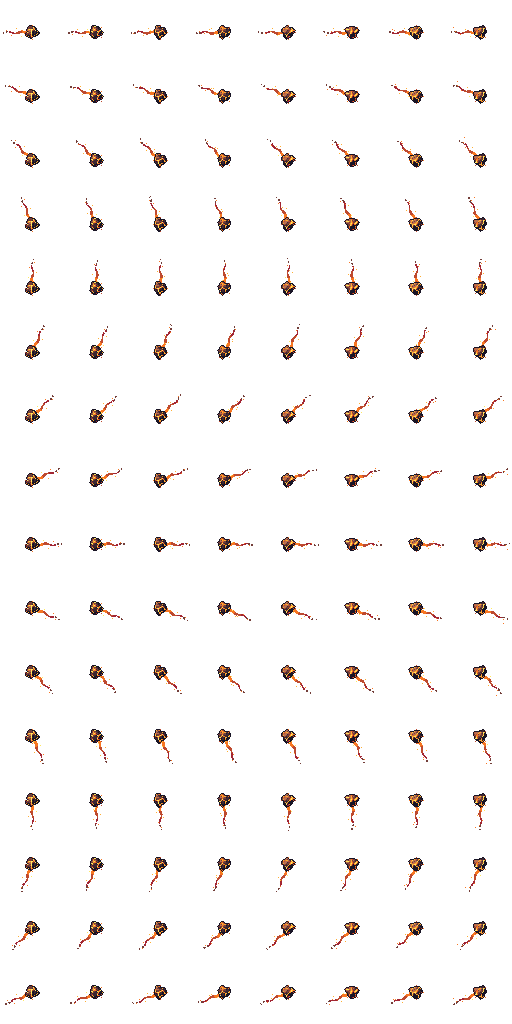
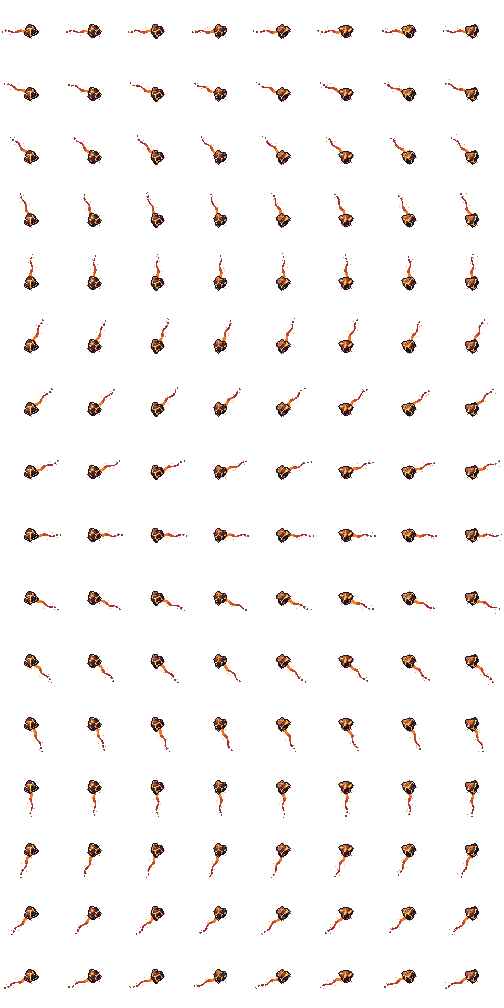
t1514 HFX v5 Molten Spit: native v5 strips (impact 71x44 7 f, burst_med, pop_v1/v2 on 7 landings, strand_dir16 24 f head pivot launch/loop/fade, ember v1/v2 30 f at b3/b4 + 4 landings, scorch 6x6 f, darken 6 f, gouge 44x38, rock 63x63), v5 shard flight frames; star / ember_patch_v3 / heat unused (he

diff --git a/Assets/Hellord/Scripts/Runtime/HellordFireBasics1481.cs b/Assets/Hellord/Scripts/Runtime/HellordFireBasics1481.cs
@@ -105,45 +105,46 @@ namespace Hellord
         void FbSpitImpact1481(FbRock r)
         {
             var T = HellordTuning.I; Vector2 at = r.p; ClampToRoom(ref at, 4); int ord = YSort(at.y); var s = r.s; float dmg = r.dmg;
-            FireBasicsFX1481.Once("molten_spit_impact", at, ord + 40, 0f, T.msImpactSpeed1481, 0, false, 0f, T.msBlastSx1481, T.msBlastSy1481); // t1514: flattened ~40 x 26 px, 2 hot frames + fade (~7 f)
+            FireBasicsFX1481.Once("molten_spit_impact", at, ord + 40, 0f, T.msImpactSpeed1481, 0, false, 0f, T.msBlastSx1481, T.msBlastSy1481); // HFX v5 impact 71x44 (42x27 blob), 7 f: 2 core + 5 fade, native
             var cast = new FbCast { embers = 1 };
-            if (T.fbDark1481 && T.msDarkArt1481 && FireBasicsFX1481.Frames("molten_spit_darken") > 0) FireBasicsFX1481.Once("molten_spit_darken", at, FbDarkOrd1481(at.y), 0f, 1f, 0, false, T.msDarkArtDelayF1481, T.msDarkArtSx1481, T.msDarkArtSy1481); // HFX v4 dark under-burst decal b0-b9
+            if (T.fbDark1481 && T.msDarkArt1481 && FireBasicsFX1481.Frames("molten_spit_darken") > 0) FireBasicsFX1481.Once("molten_spit_darken", at, FbDarkOrd1481(at.y), 0f, 1f, 0, false, T.msDarkArtDelayF1481, T.msDarkArtSx1481, T.msDarkArtSy1481); // HFX v5 darken b0-5
             else FireBasicsFX1481.Dark(at + r.dir * (T.msDarkFwdPx1481 / FbPx), T.msDarkRxPx1481, T.msDarkRyPx1481, T.msDarkAlpha1481, T.msDarkHoldS1481, FbDarkOrd1481(at.y));
             /* t1511b */ ScreenShake.Add(2, 0.1f); HellordAudio.Play("magma_throw_land");
             After(T.msImpactDelayF1481 / FbFps, () => { if (mode != Mode.StartPick) FbArea1481(at, T.msHitRU1481 * Mathf.Sqrt(s.AreaMul), dmg * T.msImpactMul1481, s, T.msKnock1481, 1, T.msHitYScale1481); }); // t1514: flattened ellipse, the only hit with a number
             Vector2 tg = new Vector2(r.dir.x, r.dir.y * T.msStrandYScale1481); Vector2 b2 = at + tg * (T.msB2OutPx1481 / FbPx); ClampToRoom(ref b2, 4);
             After(T.msB2DelayF1481 / FbFps, () =>
             {   // t1514 B2: one medium burst ~20 px, 42 px out along the throw, small damage, no number
-                if (mode == Mode.StartPick) return; FireBasicsFX1481.Once("molten_spit_impact", b2, YSort(b2.y) + 40, 0f, T.msB2Speed1481, 0, false, 0f, T.msB2Scale1481, T.msB2Scale1481 * T.msHitYScale1481);
+                if (mode == Mode.StartPick) return; FireBasicsFX1481.Once("molten_spit_burst_med", b2, YSort(b2.y) + 40, 0f, T.msB2Speed1481, 0, false, 0f, T.msB2Scale1481, T.msB2Scale1481); // HFX v5 burst_med (~20 px), 6 f
                 HellordAudio.Play("magma_throw_splat"); FbArea1481(b2, T.msB2RU1481 * Mathf.Sqrt(s.AreaMul), dmg * T.msB2Mul1481, s, 0f, 2, T.msHitYScale1481);
             });
             float area = Mathf.Sqrt(s.AreaMul);
             if (T.msHeatS1481 > 0f) FbPatch1481(at, T.msHeatRxU1481 * area, T.msHeatRyU1481 * area, T.msHeatS1481, T.msHeatDelayF1481 / FbFps, T.msPatchTickS1481, dmg * T.msPatchTickMul1481, s); // HFX v4 dropped the heat haze (msHeatS 0 = off)
-            FireBasicsFX1481.Decal("molten_spit_scorch", FireBasicsFX1481.DecalKind.SpitScorch, at, FbGround + ord, T.msScorchDelayF1481);                    // HFX v4 scorch: 8 stages x 9 f from b2
-            FireBasicsFX1481.Once("molten_spit_ember_patch_v1", at, FbGround + ord + 4, 0f, FbEmberSpeed1481(T), T.msEmberMax1481, false, T.msEmberDelayF1481); // HFX v4 impact embers from b3, t1514: 60 f strip over msEmberS (1.5 s)
+            FireBasicsFX1481.Decal("molten_spit_scorch", FireBasicsFX1481.DecalKind.SpitScorch, at, FbGround + ord, T.msScorchDelayF1481);                    // HFX v5 scorch: 6 stages x 6 f from b2
+            FireBasicsFX1481.Once("molten_spit_ember_patch_v1", at + FbPxOff1481(T.msEmber1OffPx1481), FbGround + ord + 4, 0f, 1f, T.msEmberMax1481, false, T.msEmberDelayF1481);  // HFX v5: ember v1 at b3 (-5,+1), v2 at b4 (+6,-1), 30 f once
+            FireBasicsFX1481.Once("molten_spit_ember_patch_v2", at + FbPxOff1481(T.msEmber2OffPx1481), FbGround + ord + 4, 0f, 1f, T.msEmberMax1481, false, T.msEmber2DelayF1481); cast.embers = 2;
             FbPatch1481(at, T.msEmberRU1481 * area, T.msEmberRU1481 * area, T.msEmberS1481, T.msEmberDelayF1481 / FbFps, T.msPatchTickS1481, dmg * T.msPatchTickMul1481, s);
-            int n = Mathf.Min(T.msStrands1481, Mathf.Min(T.msStrandAngle1481.Length, T.msStrandReachPx1481.Length)); var sm = T.msShardSpeedMul1481;
+            int n = Mathf.Min(T.msStrands1481, Mathf.Min(T.msStrandAngle1481.Length, T.msStrandReachPx1481.Length)); var sm = T.msShardSpeedMul1481; var ff = T.msShardFlightF1481;
             for (int i = 0; i < n; i++)
-            {   // 8 strands: throw direction +-35 deg, ground reach table, ground y x0.75, spawn impact + 3 f (odd ones + 1 f)
+            {   // 8 shrapnel: cone table, reach table (hitbox, dc1090b), ground y x0.7, launch at b2; flight frames per piece from HFX v5 (else base speed x multiplier)
                 Vector2 d = FbUnit(T.msStrandAngle1481[i], r.dir); Vector2 gd = new Vector2(d.x, d.y * T.msStrandYScale1481); Vector2 b = at + gd * (T.msStrandReachPx1481[i] / FbPx); ClampToRoom(ref b, 4);
-                Vector2 a0 = at + gd * (T.msStrandStartPx1481 / FbPx); Vector2 sd = b - at; float spd = Mathf.Max(1f, T.msShardSpeedPx1481 * (sm != null && i < sm.Length ? sm[i] : 1f)) / FbPx; // t1514: constant speed per piece (u/s)
+                Vector2 a0 = at + gd * (T.msStrandStartPx1481 / FbPx); Vector2 sd = b - at; float spd = ff != null && i < ff.Length && ff[i] > 0f ? (b - a0).magnitude / (ff[i] / FbFps) : Mathf.Max(1f, T.msShardSpeedPx1481 * (sm != null && i < sm.Length ? sm[i] : 1f)) / FbPx; // constant speed per piece (u/s)
                 _fbStrands.Add(new FbStrand { a = a0, b = b, dir = sd, idx = i, cast = cast, speedU = spd, flyS = Mathf.Max(1f / FbFps, (b - a0).magnitude / spd), row = FireBasicsFX1481.DirRow(sd), dmg = dmg * T.msStrandMul1481, pdmg = dmg * T.msPatchTickMul1481, s = s, t = -(T.msStrandStartF1481 + (i & 1) * T.msStrandOddF1481) / FbFps });
             }
         }
         void FbStrandLand1481(FbStrand st)
         {
             var T = HellordTuning.I; st.landed = true; Vector2 b = st.b; int ord = YSort(b.y); HellordAudio.Play("magma_throw_splat");
-            var c = st.cast; bool pop = !T.msPopStar1481 && (c == null || c.pops < T.msPopMax1481); if (c != null) c.pops++;
-            if (pop) FireBasicsFX1481.Once("molten_spit_impact", b, ord + 40, 0f, FireBasicsFX1481.Frames("molten_spit_impact") / Mathf.Max(1f, T.msPopFrames1481), 0, false, 0f, T.msPopScale1481, T.msPopScale1481); // t1514 small pop (B3 / B4): shrunken impact, 3 f
-            else FireBasicsFX1481.Once("molten_spit_star", b, ord + 40, 0f, 1f, 0, false, T.msStrandStarF1481);                                   // HFX v4: star at the head on landing
-            if ((st.idx & 1) == 1 && (c == null || c.embers < T.msEmberCastMax1481))
-            {   // every odd shard leaves an ember patch v2 / v3 (alternating) at its landing point; t1514: <= msEmberCastMax per cast incl. the impact one, 1.5 s
-                if (c != null) c.embers++; FireBasicsFX1481.Once("molten_spit_ember_patch_v" + (2 + (st.idx >> 1) % 2), b, FbGround + ord + 4, 0f, FbEmberSpeed1481(T), T.msEmberMax1481);
+            var c = st.cast; bool pop = st.idx != T.msPopSkipIdx1481 && (c == null || c.pops < T.msPopMax1481);
+            if (pop) { if (c != null) c.pops++; FireBasicsFX1481.Once((st.idx & 1) == 0 ? "molten_spit_pop_v1" : "molten_spit_pop_v2", b, ord + 40, 0f, 1f, 0, false, 0f, T.msPopScale1481, T.msPopScale1481); } // HFX v5 small pop on 7 landings (all but index 4), v1 even / v2 odd, 3 f
+            int ek = T.msEmberShards1481 != null ? System.Array.IndexOf(T.msEmberShards1481, st.idx) : -1;
+            if (ek >= 0 && (c == null || c.embers < T.msEmberCastMax1481))
+            {   // HFX v5: shards 0, 3, 5, 7 leave an ember patch (alternating v1 / v2, 30 f once); <= msEmberCastMax per cast incl. the 2 impact ones. Damage patch 1.5 s (gameplay, dc1090b)
+                if (c != null) c.embers++; FireBasicsFX1481.Once("molten_spit_ember_patch_v" + (1 + (ek & 1)), b, FbGround + ord + 4, 0f, 1f, T.msEmberMax1481);
                 FbPatch1481(b, T.msEmberRU1481 * Mathf.Sqrt(st.s.AreaMul), T.msEmberRU1481 * Mathf.Sqrt(st.s.AreaMul), T.msEmberS1481, 0f, T.msPatchTickS1481, st.pdmg, st.s);
             }
         }
 
-        static float FbEmberSpeed1481(HellordTuning T) => Mathf.Max(0.05f, 60f / Mathf.Max(0.1f, T.msEmberS1481 * FbFps)); // 60-frame one-shot ember strip played over msEmberS
+        static Vector2 FbPxOff1481(Vector2 px) => new Vector2(px.x, -px.y) / FbPx; // HFX px offset (y down) -> world
 
         // ---------------------------------------------------------------- INFERNAL BOULDER (SkillId.RollingMagmaRock)
         // t0: cast ring on the caster (24 f); then the ball drops in 12 px in front on a small scripted arc with one tiny bounce and rolls (D2R pace, rrSpeedU / rrRangePx, ease-out over the last rrEaseFrac) until the range or a wall.
@@ -252,11 +253,11 @@ namespace Hellord
                         if (!T.msShardPierce1481) { stop = true; break; }
                     }
                     if (stop) { st.b = g; st.t = flight; FbStrandLand1481(st); }
-                    else { FireBasicsFX1481.Show("molten_spit_strand_dir16", g + lift * (1f - k), Mathf.Min(7, (int)(k * 8f)), ord + T.msStrandSortAir1481, st.row); continue; }
+                    else { int tf = (int)(st.t * FbFps); FireBasicsFX1481.Show("molten_spit_strand_dir16", g + lift * (1f - k), tf < 2 ? tf : 2 + (tf - 2) % 4, ord + T.msStrandSortAir1481, st.row); continue; } // HFX v5: f0-1 launch, f2-5 flight loop; head pivot
                 }
                 if (!st.landed) FbStrandLand1481(st);
-                int fa = (int)((st.t - flight) * FbFps * 8f / Mathf.Max(1f, T.msShardFadeF1481)); if (fa > 7) { _fbStrands.RemoveAt(i); continue; }
-                FireBasicsFX1481.Show("molten_spit_strand_dir16", st.b, 8 + fa, YSort(st.b.y) + T.msStrandSortLand1481, st.row);   // landed frames 8-15, t1514: spread over msShardFadeF (18 f)
+                int fa = (int)((st.t - flight) * FbFps * 18f / Mathf.Max(1f, T.msShardFadeF1481)); if (fa > 17) { _fbStrands.RemoveAt(i); continue; }
+                FireBasicsFX1481.Show("molten_spit_strand_dir16", st.b, 6 + fa, YSort(st.b.y) + T.msStrandSortLand1481, st.row);   // HFX v5 landed fade f6-23 (18 f)
             }
             // ---- Infernal Boulder balls: scripted launch drop + tiny bounce, then a roll at the D2R pace with an ease-out over the last part of the range
             for (int i = _fbBalls.Count - 1; i >= 0; i--)

diff --git a/Assets/Hellord/Scripts/Runtime/HellordTuning.cs b/Assets/Hellord/Scripts/Runtime/HellordTuning.cs
@@ -1431,14 +1431,14 @@ namespace Hellord
     [Tooltip("HFX v4 flight: frames = clamp(round(throw px / msFlightPxPerF), min, max) (95 px -> 20 f; msFlightF is the fallback when PxPerF <= 0). v4 z(u) = 14(1-u) + 72u(1-u) = msRockZPx / 4 x msArcPeakPx. Shadow strip frame by height: 0 below msShadowZ[0] px, 1 below msShadowZ[1], else 2")] public float msFlightPxPerF1481 = 4.75f, msFlightMinF1481 = 14f, msFlightMaxF1481 = 26f; public float[] msShadowZ1481 = { 6f, 14f };
     [Tooltip("Fireball hit radius (m; HFX 22 px): the rock detonates when it arrives or when an enemy comes within it. Damage lands this many frames into the impact (HFX frame 2-3), x skill damage, knock-back (m/s)")] public float msHitRU1481 = 1.3f, msImpactDelayF1481 = 1f, msImpactMul1481 = 1f, msKnock1481 = 1f; // t1514: 21 px blast, knock-back <= 1 m/s (PoE2 has none)
     [Tooltip("Strands: count / angle around the throw direction (deg, forward cone +-35) / ground reach (px = 4.6-7.3 m) per strand")] public int msStrands1481 = 8; public float[] msStrandAngle1481 = { -32f, -23f, -14f, -5f, 5f, 14f, 23f, 32f }, msStrandReachPx1481 = { 46f, 70f, 58f, 82f, 64f, 50f, 76f, 42f }; // t1514 (REPORT_t1513): 8 shrapnel, cone +-32, reach 42-82 px
-    [Tooltip("Strand timing and shape: start frames after the impact (+ extra frames for odd strands), eased flight frames, ease exponent (1-(1-t)^e), ground y squash, lift above the ground (px), star flash delay after landing (frames, HFX strand frame 9)")] public float msStrandStartF1481 = 2f, msStrandOddF1481 = 0f, msStrandFlightF1481 = 8f, msStrandEase1481 = 1.8f, msStrandYScale1481 = 0.7f, msStrandLiftPx1481 = 5f, msStrandStarF1481 = 0f, msStrandStartPx1481 = 6f; public int msStrandSortAir1481 = 60, msStrandSortLand1481 = 20; // HFX v4: head starts 6 px out, lift 5 px at launch falling to 0 at landing, frames 0-7 flight / 8-15 landed
+    [Tooltip("Strand timing and shape: start frames after the impact (+ extra frames for odd strands), eased flight frames, ease exponent (1-(1-t)^e), ground y squash, lift above the ground (px), star flash delay after landing (frames, HFX strand frame 9)")] public float msStrandStartF1481 = 2f, msStrandOddF1481 = 0f, msStrandFlightF1481 = 8f, msStrandEase1481 = 1.8f, msStrandYScale1481 = 0.7f, msStrandLiftPx1481 = 4f, msStrandStarF1481 = 0f, msStrandStartPx1481 = 4f; public int msStrandSortAir1481 = 60, msStrandSortLand1481 = 20; // HFX v4: head starts 6 px out, lift 5 px at launch falling to 0 at landing, frames 0-7 flight / 8-15 landed
     [Tooltip("Each strand damages every enemy it flies through once: hit radius (m; HFX 6 px) and damage x skill damage")] public float msStrandRU1481 = 0.375f, msStrandMul1481 = 0.3f;
     [Tooltip("Heat patch under the impact: starts frames after the impact, seconds burning (HFX 30 f), ellipse radius x / y (m; HFX 58 x 27 px). Ember patches: impact patch starts frames after the impact, seconds burning (HFX 75 f), radius (m), alive at once (HFX ~24). Tick (s) and tick damage x skill damage for both.")] public float msHeatDelayF1481 = 1f, msHeatS1481 = 0f, msHeatRxU1481 = 1.8f, msHeatRyU1481 = 0.85f, msEmberDelayF1481 = 3f, msEmberS1481 = 1.5f, msEmberRU1481 = 0.5f, msPatchTickS1481 = 0.5f, msPatchTickMul1481 = 0.03f; public int msEmberMax1481 = 6;
-    [Tooltip("t1514 (REPORT_t1513) main blast: damage ellipse y radius = msHitRU x this (flattened, 40 x 26 px look); the v4 impact strip plays at this speed (0.72 = 7 frames: 2 hot + fade) and is drawn scaled x / y to a ~40 x 26 px fireball")] public float msHitYScale1481 = 0.65f, msImpactSpeed1481 = 0.72f, msBlastSx1481 = 0.89f, msBlastSy1481 = 0.58f;
-    [Tooltip("t1514 shrapnel: base speed (px/s, PoE2 190-210) x per-piece multiplier (+-30 %, so the 8 land between +7 and +13 frames); non-piercing = each piece stops at the first enemy it touches and an enemy takes at most one shrapnel hit per cast (no knock-back); landed streak fade (frames)")] public float msShardSpeedPx1481 = 210f, msShardFadeF1481 = 18f; public float[] msShardSpeedMul1481 = { 1.31f, 1.11f, 1.18f, 1.06f, 0.91f, 1.19f, 1.09f, 0.75f }; public bool msShardPierce1481 = false;
-    [Tooltip("t1514 medium burst B2: frames after the impact, distance out along the throw (px, ground squashed like the shards), impact-strip scale (0.45 = ~20 px), damage radius (m) and damage x skill damage (no number), strip speed")] public float msB2DelayF1481 = 6f, msB2OutPx1481 = 42f, msB2Scale1481 = 0.45f, msB2RU1481 = 0.625f, msB2Mul1481 = 0.2f, msB2Speed1481 = 1f;
-    [Tooltip("t1514 small pops at the shrapnel ends (visual only): max per cast (the rest show the v4 star), impact-strip scale (0.14 = ~6 px), frames each; msPopStar = use the v4 star for every pop instead. Ember patches per cast incl. the impact one (they tick msPatchTickMul every msPatchTickS for msEmberS)")] public float msPopScale1481 = 0.14f, msPopFrames1481 = 3f; public int msPopMax1481 = 7, msEmberCastMax1481 = 6; public bool msPopStar1481 = false;
-    [Tooltip("HFX v4 Spit floor decals: scorch starts frames after the impact (8 stages x 9 f), darken strip delay (frames). msDarkArt = use the HFX v4 molten_spit_darken strip instead of the code ellipse under the Spit burst (the Boulder keeps the code ellipse; no art for it)")] public float msScorchDelayF1481 = 2f, msDarkArtDelayF1481 = 0f, msDarkArtSx1481 = 0.8f, msDarkArtSy1481 = 0.65f; public bool msDarkArt1481 = true; // t1514: darken strip scaled to the flattened blast
+    [Tooltip("t1514 (REPORT_t1513) main blast: damage ellipse y radius = msHitRU x this (flattened, 40 x 26 px look); the v4 impact strip plays at this speed (0.72 = 7 frames: 2 hot + fade) and is drawn scaled x / y to a ~40 x 26 px fireball")] public float msHitYScale1481 = 0.65f, msImpactSpeed1481 = 1f, msBlastSx1481 = 1f, msBlastSy1481 = 1f; // HFX v5 impact is native 42x27 / 7 f: speed and scale 1
+    [Tooltip("t1514 shrapnel: base speed (px/s, PoE2 190-210) x per-piece multiplier (+-30 %, so the 8 land between +7 and +13 frames); non-piercing = each piece stops at the first enemy it touches and an enemy takes at most one shrapnel hit per cast (no knock-back); landed streak fade (frames)")] public float msShardSpeedPx1481 = 210f, msShardFadeF1481 = 18f; public float[] msShardSpeedMul1481 = { 1.31f, 1.11f, 1.18f, 1.06f, 0.91f, 1.19f, 1.09f, 0.75f }, msShardFlightF1481 = { 6f, 9f, 10f, 13f, 7f, 11f, 12f, 8f }; public bool msShardPierce1481 = false; // HFX v5 flight frames per piece (overrides speed x mul when set; ~135-275 px/s, mean ~200)
+    [Tooltip("t1514 medium burst B2: frames after the impact, distance out along the throw (px, ground squashed like the shards), impact-strip scale (0.45 = ~20 px), damage radius (m) and damage x skill damage (no number), strip speed")] public float msB2DelayF1481 = 6f, msB2OutPx1481 = 42f, msB2Scale1481 = 1f, msB2RU1481 = 0.625f, msB2Mul1481 = 0.2f, msB2Speed1481 = 1f;
+    [Tooltip("t1514 / HFX v5 small pops at the shrapnel ends (visual only, pop_v1 / pop_v2 strips, 3 f): max per cast, scale, skipped shard index. Ember patches per cast incl. the 2 impact ones (each landing ember also ticks msPatchTickMul every msPatchTickS for msEmberS, as does one patch at the impact)")] public float msPopScale1481 = 1f; public int msPopMax1481 = 7, msEmberCastMax1481 = 6, msPopSkipIdx1481 = 4; public int[] msEmberShards1481 = { 0, 3, 5, 7 }; public float msEmber2DelayF1481 = 4f; public Vector2 msEmber1OffPx1481 = new Vector2(-5f, 1f), msEmber2OffPx1481 = new Vector2(6f, -1f); // HFX v5: pops v1/v2 on all landings but index 4; impact embers v1 b3 / v2 b4 at these px offsets (y down); landing embers on these shard indices
+    [Tooltip("HFX v4 Spit floor decals: scorch starts frames after the impact (8 stages x 9 f), darken strip delay (frames). msDarkArt = use the HFX v4 molten_spit_darken strip instead of the code ellipse under the Spit burst (the Boulder keeps the code ellipse; no art for it)")] public float msScorchDelayF1481 = 2f, msDarkArtDelayF1481 = 0f, msDarkArtSx1481 = 1f, msDarkArtSy1481 = 1f; public bool msDarkArt1481 = true; // t1514: darken strip scaled to the flattened blast
     [Tooltip("t1511: Molten Spit casts alive at once, counting wind-ups and rocks in flight (1 = a new wind-up only starts once the previous rock has burst, so only one Spit is ever flying or exploding), and the fan (deg) of extra rocks from Multi Projectiles")] public int msMaxCasts1481 = 1; public float msSpreadDeg1481 = 10f;
     [Header("t1481: Infernal Boulder (HFX v4 / D2R Molten Boulder reference)")]
     [Tooltip("Cast ring frames before the ball appears (HFX 24 f = 0.8 s); ball diameter (m; HFX 18 px = 1.125, hit radius = half of it); spawn offset in front of the hero (px)")] public float rrLaunchF1481 = 24f, rrBallU1481 = 1.625f, rrStartPx1481 = 22f; // HFX v4: 26 px ball; NOTES say 14 px forward, 22 keeps the ball off the hero sprite (14 covers the face)

diff --git a/Assets/Hellord/Scripts/Runtime/HellordFireBasicsFX1481.cs b/Assets/Hellord/Scripts/Runtime/HellordFireBasicsFX1481.cs
@@ -4,8 +4,8 @@ using UnityEngine;
 namespace Hellord
 {
     // =====================================================================================================================
-    //  t1481: HFX strips for Molten Spit / Infernal Boulder (v3) and Fire Pillar (Resources/HellordArt/FireBasics/<key>_strip.png + <key>_glow_strip.png).
-    //  30 fps, 16 PPU, point filtered, alpha 0/255, drawn unrotated at integer 1x. Pivots are HFX v3 NOTES.txt values (px from the top-left of a frame).
+    //  t1481: HFX strips for Molten Spit (v5) / Infernal Boulder (v4) and Fire Pillar (Resources/HellordArt/FireBasics/<key>_strip.png + <key>_glow_strip.png).
+    //  30 fps, 16 PPU, point filtered, alpha 0/255, drawn unrotated at integer 1x. Pivots are HFX NOTES values (Spit v5, Boulder v4) (px from the top-left of a frame).
     //  Kinds of drawing:  Show()  = immediate, every frame (flying rock, strands, rolling ball, shadows)
     //                     Once()  = one-shot strip that plays itself, optional start delay (impact, star, heat, gouge, cast ring, end blast, fire pillar)
     //                     Tile()  = burning tile of any strip with 6 ignite / 12 loop / (n-18) die frames: lives lifeS seconds, loop starts at a random phase (band, fire patch, ember patch)
@@ -20,12 +20,13 @@ namespace Hellord
         const uint Orange = 0xff963c, Red = 0xff6028, Or4 = 0xf77622, Ye4 = 0xfeae34, Lt4 = 0xfee761; const float G = 1.6f;
         static readonly object[][] Spec =
         {
-            // Molten Spit (HFX v4, NOTES section 2 + 4): tint f77622 (impact / star warmer), gain = G x (HFX suggested gain / 0.45) so the rock keeps the v3 standard gain
-            new object[] { "molten_spit_gouge", 64, 48, 30, 24, 40, 1, 0.34f, Or4, G * 0.55f / 0.45f }, new object[] { "molten_spit_rock_dir16", 64, 64, 8, 32, 32, 16, 0.34f, Or4, G },
-            new object[] { "molten_spit_shadow", 16, 6, 3, 8, 3, 1, 0f, Or4, G }, new object[] { "molten_spit_impact", 96, 80, 5, 48, 56, 1, 0.34f, Ye4, G * 0.75f / 0.45f },
-            new object[] { "molten_spit_darken", 96, 48, 10, 48, 24, 1, 0f, Or4, G }, new object[] { "molten_spit_strand_dir16", 64, 64, 16, 32, 32, 16, 0.34f, Or4, G * 0.42f / 0.45f },
-            new object[] { "molten_spit_star", 16, 16, 4, 8, 8, 1, 0.34f, Lt4, G * 0.5f / 0.45f }, new object[] { "molten_spit_scorch", 64, 30, 8, 32, 15, 1, 0f, Or4, G },
-            new object[] { "molten_spit_ember_patch_v1", 60, 30, 60, 30, 17, 1, 0.34f, Or4, G * 0.32f / 0.45f }, new object[] { "molten_spit_ember_patch_v2", 32, 18, 60, 16, 11, 1, 0.34f, Or4, G * 0.32f / 0.45f }, new object[] { "molten_spit_ember_patch_v3", 32, 18, 60, 16, 11, 1, 0.34f, Or4, G * 0.32f / 0.45f },
+            // Molten Spit (HFX v5 NOTES / spec_v5.json): native sizes, gain = G x (HFX gain / 0.45). Unused v4 keys (star, ember_patch_v3, heat) are not loaded.
+            new object[] { "molten_spit_gouge", 44, 38, 30, 6, 29, 1, 0.34f, Or4, G * 0.55f / 0.45f }, new object[] { "molten_spit_rock_dir16", 63, 63, 8, 31, 31, 16, 0.34f, Or4, G },
+            new object[] { "molten_spit_shadow", 16, 6, 3, 8, 3, 1, 0f, Or4, G }, new object[] { "molten_spit_impact", 71, 44, 7, 34, 27, 1, 0.34f, Ye4, G * 0.70f / 0.45f },
+            new object[] { "molten_spit_burst_med", 37, 26, 6, 19, 16, 1, 0.34f, Ye4, G * 0.55f / 0.45f }, new object[] { "molten_spit_pop_v1", 11, 9, 3, 5, 4, 1, 0.34f, Lt4, G }, new object[] { "molten_spit_pop_v2", 10, 9, 3, 5, 4, 1, 0.34f, Lt4, G },
+            new object[] { "molten_spit_darken", 43, 20, 6, 20, 10, 1, 0f, Or4, G }, new object[] { "molten_spit_strand_dir16", 35, 35, 24, 17, 17, 16, 0.34f, Or4, G * 0.30f / 0.45f },
+            new object[] { "molten_spit_scorch", 21, 11, 6, 12, 6, 1, 0f, Or4, G },
+            new object[] { "molten_spit_ember_patch_v1", 12, 11, 30, 6, 7, 1, 0.34f, Or4, G * 0.25f / 0.45f }, new object[] { "molten_spit_ember_patch_v2", 11, 11, 30, 5, 7, 1, 0.34f, Or4, G * 0.25f / 0.45f },
             // Infernal Boulder (HFX v4)
             new object[] { "infernal_boulder_roll_dir16", 56, 56, 32, 28, 28, 16, 0.30f, Or4, G * 0.40f / 0.45f }, new object[] { "infernal_boulder_shadow", 40, 12, 1, 20, 6, 1, 0f, Or4, G },
             new object[] { "infernal_boulder_band", 32, 40, 40, 16, 33, 1, 0.30f, Ye4, G * 0.36f / 0.45f }, new object[] { "infernal_boulder_band_b", 32, 40, 40, 16, 33, 1, 0.30f, Ye4, G * 0.36f / 0.45f },
@@ -119,7 +120,7 @@ namespace Hellord
         public enum DecalKind { PillarScorch, SpitScorch }
         sealed class DecalI { public Pair p; public Strip s; public DecalKind kind; public float f; public Vector2 pos; public int order, row; public int stage = -9; }
         readonly List<DecalI> _dec = new List<DecalI>();
-        static readonly float[][] Ends = { new float[] { 30, 46, 58, 70, 78 }, new float[] { 9, 18, 27, 36, 45, 54, 63, 72 } };   // Fire Pillar scorch stages (v1 art, unchanged); HFX v4 Spit scorch: stage = f div 9, 8 stages
+        static readonly float[][] Ends = { new float[] { 30, 46, 58, 70, 78 }, new float[] { 6, 12, 18, 24, 30, 36 } };   // Fire Pillar scorch stages (v1 art, unchanged); HFX v5 Spit scorch: stage = f div 6, 6 stages (gone at b38)
         static readonly int[] Cap = { 12, 8 }, DissolveStage = { 3, 6 };
         static int Stage(DecalKind k, float f) { var e = Ends[(int)k]; for (int i = 0; i < e.Length; i++) if (f < e[i]) return i; return -2; }
         /// <summary>Staged floor decal. delayF = frames before it starts. row = direction row of a dir16 strip (shard scar). Over the HFX cap the oldest jumps to its dissolve stage.</summary>
